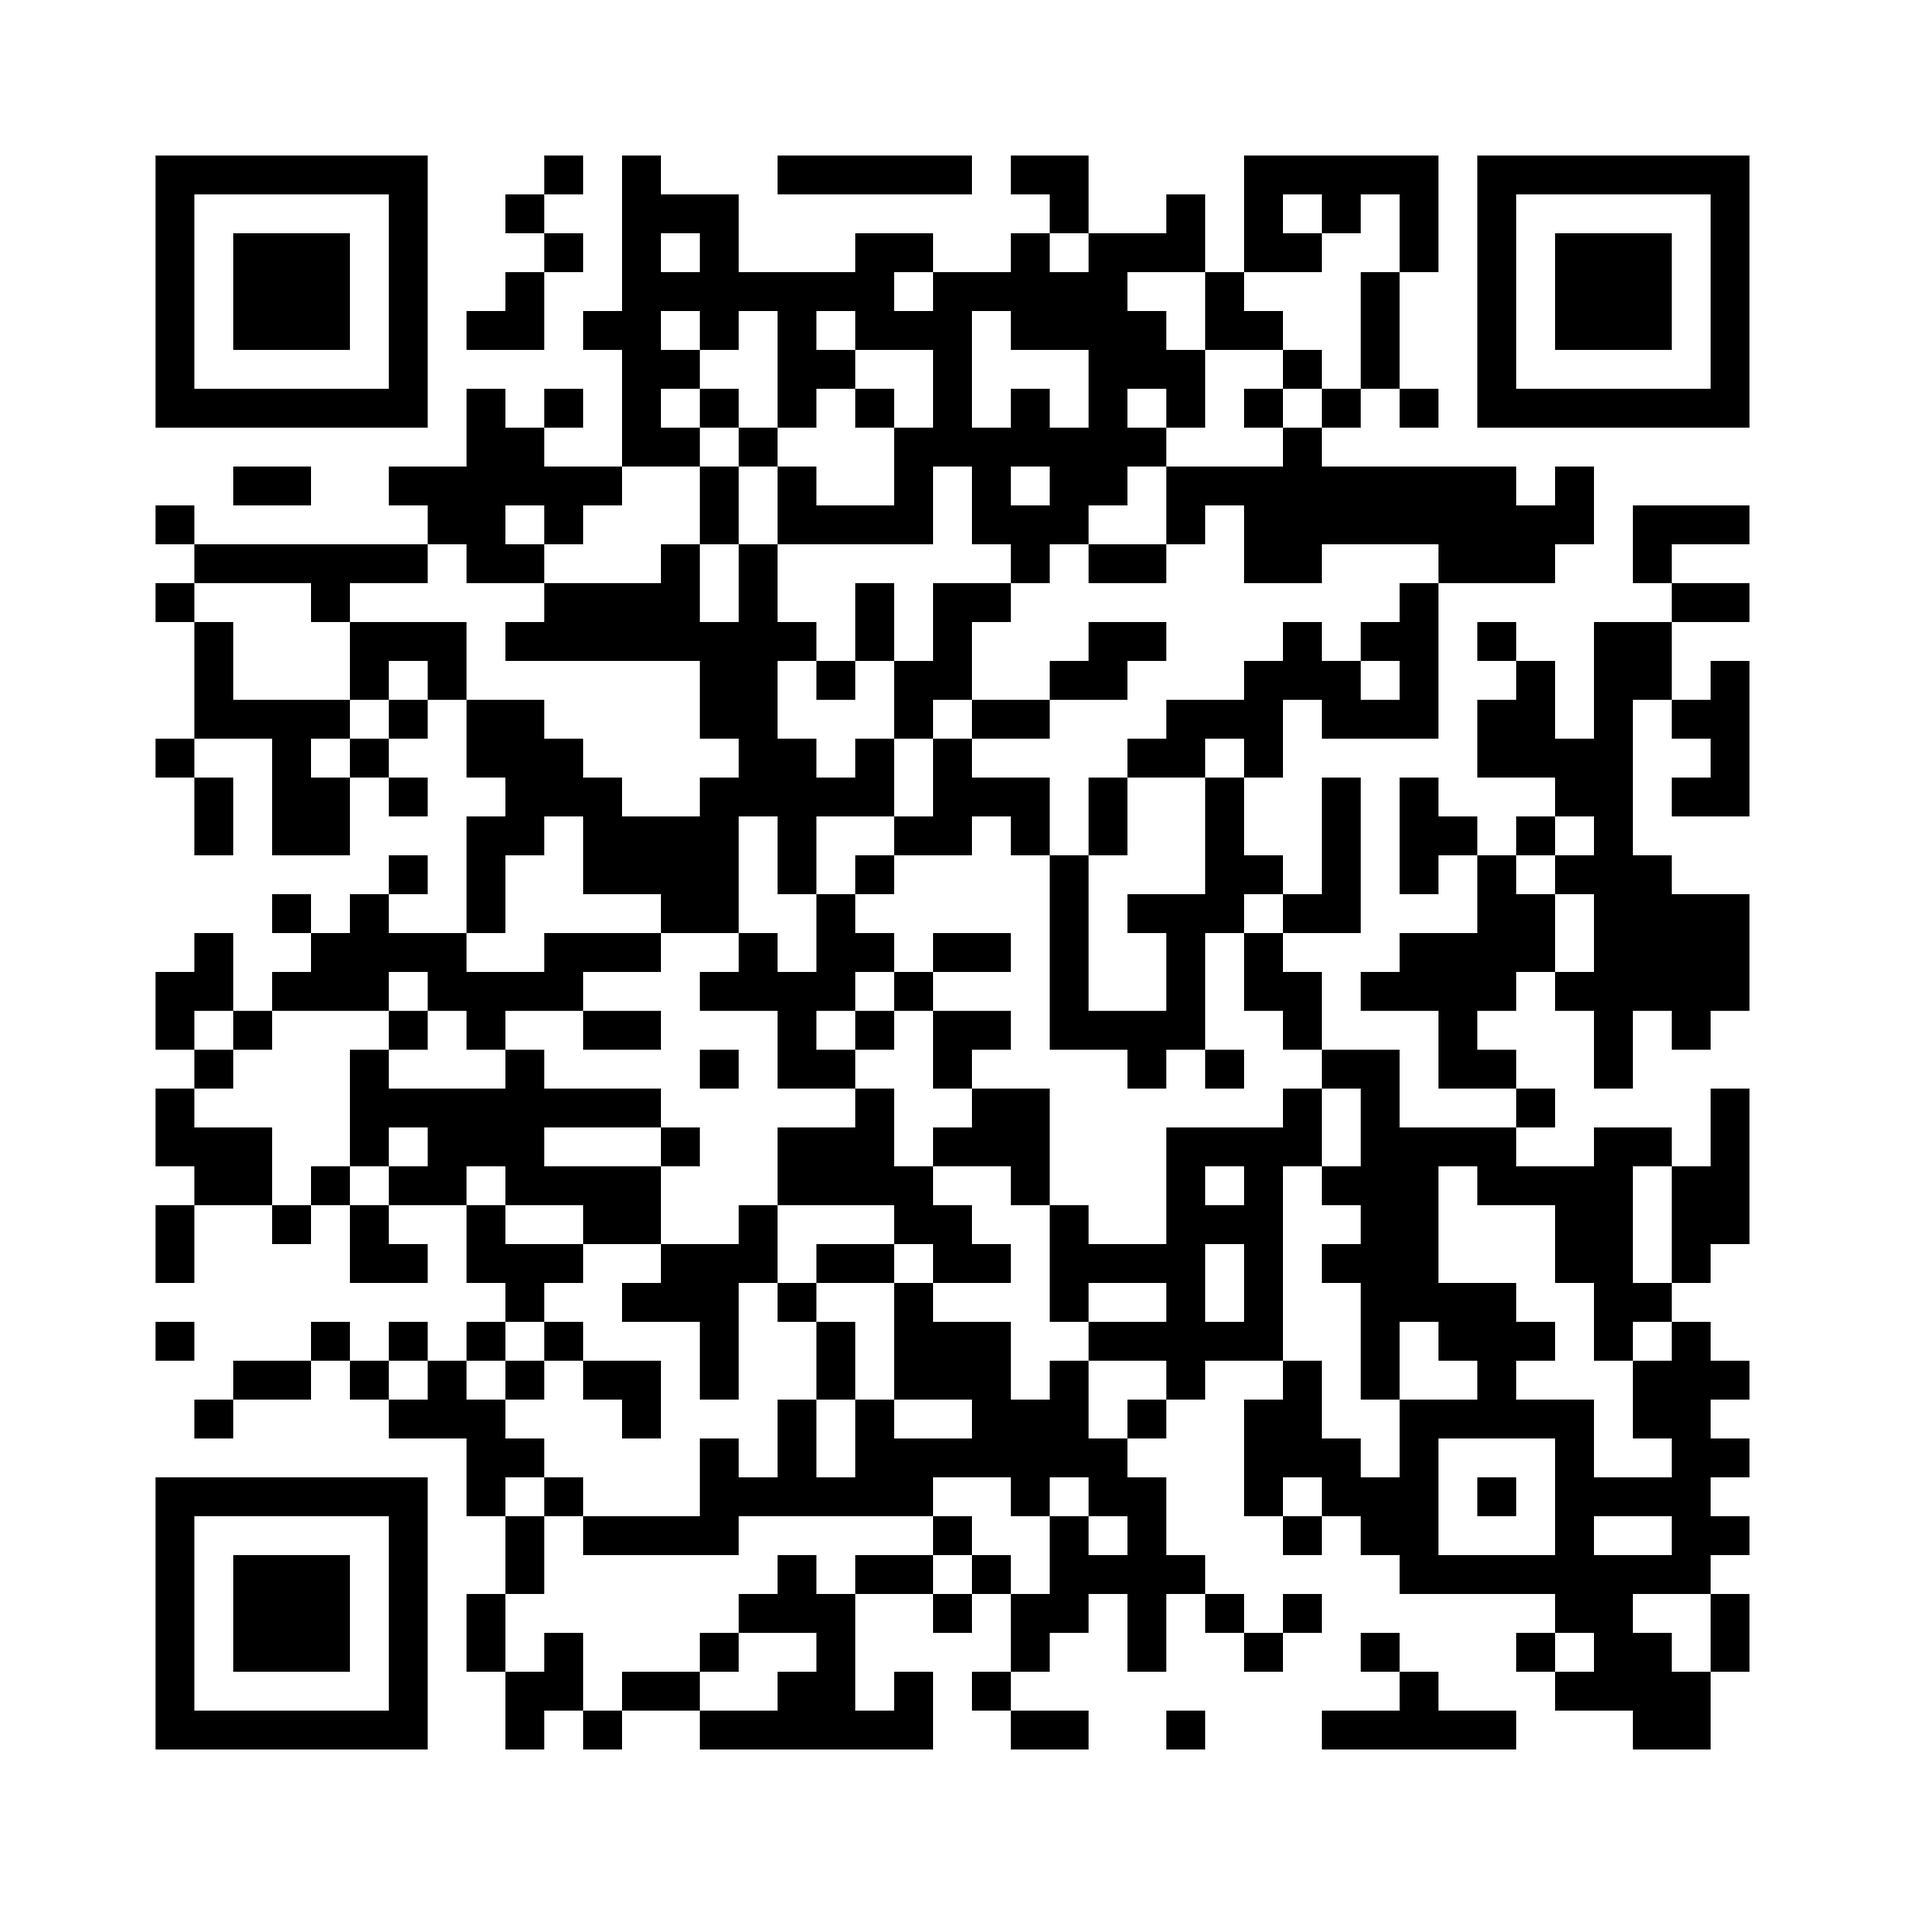
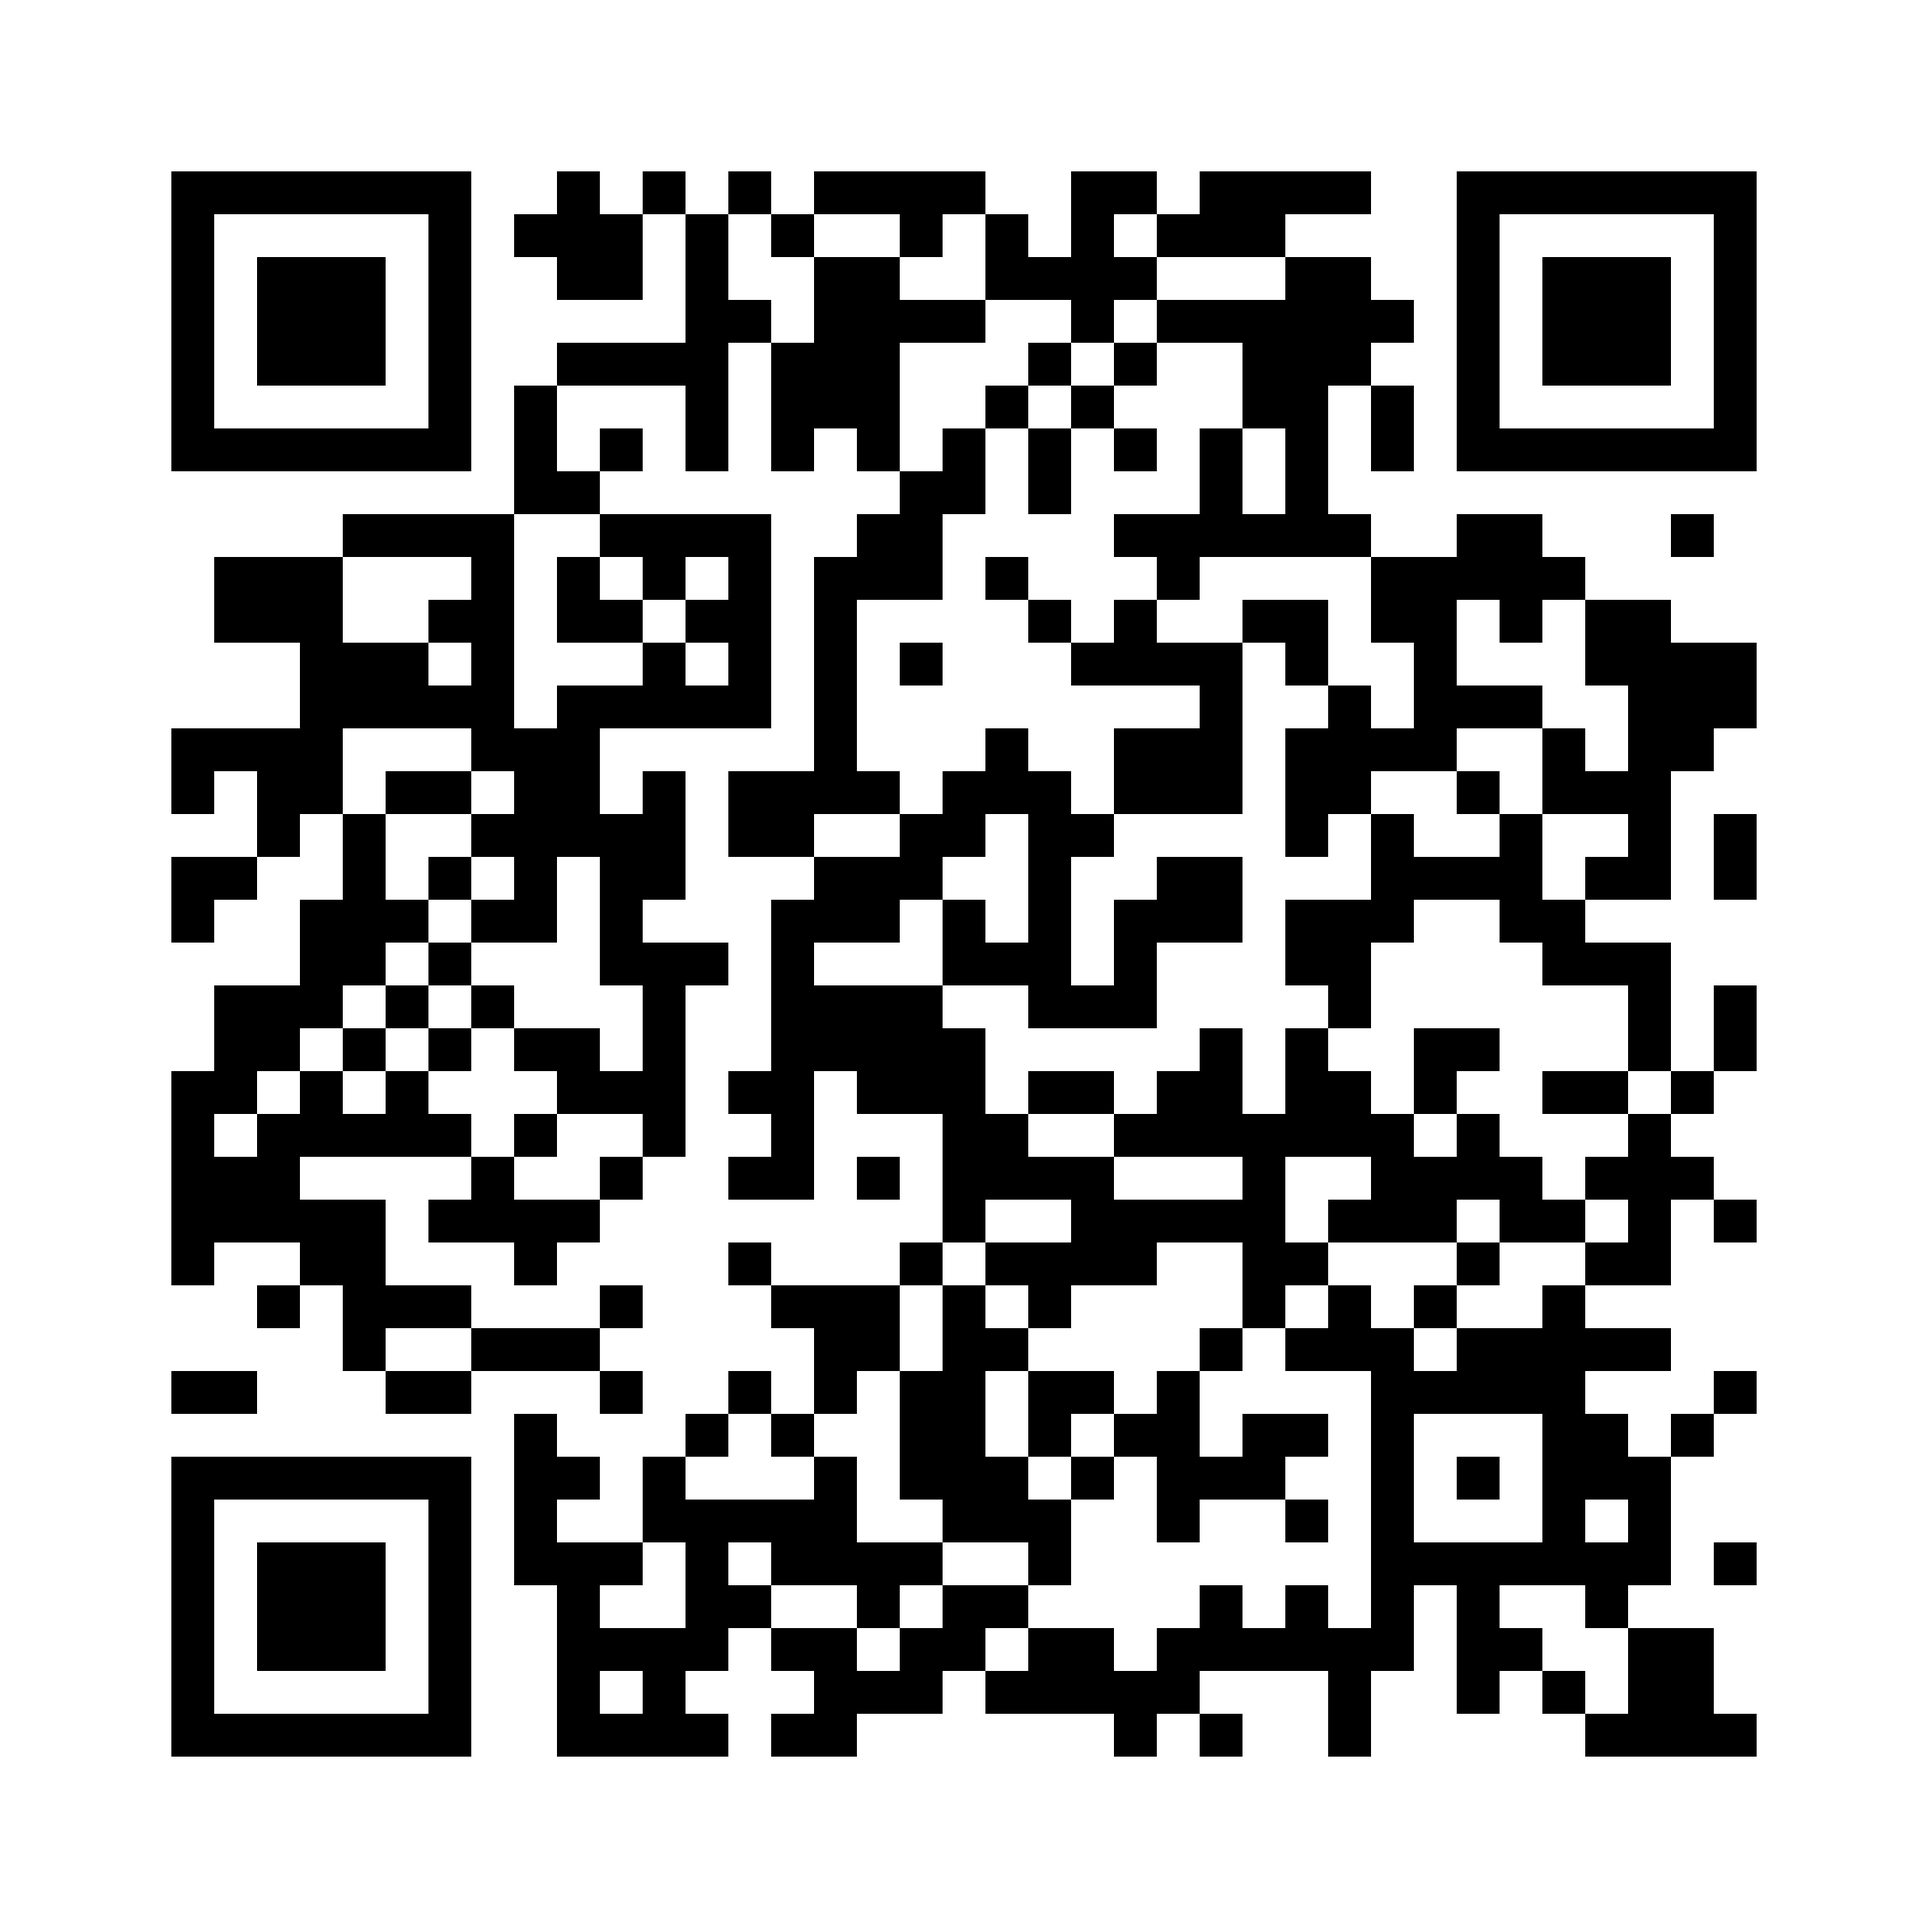
Use a public address that does not include a personal name.
The QR code now opens the Vercel site.

diff --git a/index.html b/index.html
@@ -14,11 +14,11 @@
   <meta name="apple-mobile-web-app-title" content="CASPER">
   <meta name="application-name" content="CASPER NET CAFE">
   <meta http-equiv="Content-Security-Policy" content="default-src 'self'; img-src 'self' data:; style-src 'self'; script-src 'self'; font-src 'self'; base-uri 'self'; form-action 'none'; object-src 'none'">
-  <link rel="canonical" href="https://ziadmagdy75.github.io/casper-net-cafe/">
+  <link rel="canonical" href="https://casper-net-cafe.vercel.app/">
   <meta property="og:title" content="CASPER NET CAFE">
   <meta property="og:description" content="TikTok, Instagram, Facebook, WhatsApp, and Google Maps for CASPER NET CAFE.">
   <meta property="og:type" content="website">
-  <meta property="og:url" content="https://ziadmagdy75.github.io/casper-net-cafe/">
+  <meta property="og:url" content="https://casper-net-cafe.vercel.app/">
   <meta property="og:locale" content="en">
   <meta name="twitter:card" content="summary">
   <meta name="twitter:title" content="CASPER NET CAFE">
@@ -35,7 +35,7 @@
       "@context": "https://schema.org",
       "@type": "InternetCafe",
       "name": "CASPER NET CAFE",
-      "url": "https://ziadmagdy75.github.io/casper-net-cafe/",
+      "url": "https://casper-net-cafe.vercel.app/",
       "hasMap": "https://maps.app.goo.gl/M37ATTRgbqHuvhDWA",
       "sameAs": [
         "https://www.tiktok.com/@casper.netcafe",

diff --git a/print/index.html b/print/index.html
@@ -15,7 +15,7 @@
       <p class="eyebrow">CASPER NET CAFE</p>
       <h1>Print the QR code</h1>
       <p class="lead">Scanning this code opens the link page. It does not print the social addresses as the code itself.</p>
-      <p class="url"><a href="https://ziadmagdy75.github.io/casper-net-cafe/">https://ziadmagdy75.github.io/casper-net-cafe/</a></p>
+      <p class="url"><a href="https://casper-net-cafe.vercel.app/">https://casper-net-cafe.vercel.app/</a></p>
       <div class="actions">
         <button type="button" id="print-btn">Print card</button>
         <a class="btn" href="casper-net-cafe-qr.png" download>PNG</a>
@@ -28,7 +28,7 @@
         <li>Scan it with a phone before you print a stack.</li>
       </ol>
     </header>
-    <img class="card" src="casper-net-cafe-card.svg" alt="Printable QR card for CASPER NET CAFE. Scanning it opens https://ziadmagdy75.github.io/casper-net-cafe/.">
+    <img class="card" src="casper-net-cafe-card.svg" alt="Printable QR card for CASPER NET CAFE. Scanning it opens https://casper-net-cafe.vercel.app/.">
   </main>
   <script src="../js/print.js" defer></script>
 </body>

diff --git a/404.html b/404.html
@@ -62,7 +62,7 @@
     <p>CASPER NET CAFE</p>
     <h1>Page not found</h1>
     <p class="lead">That address is not on this link page.</p>
-    <a id="home-link" href="https://ziadmagdy75.github.io/casper-net-cafe/">Back to links</a>
+    <a id="home-link" href="https://casper-net-cafe.vercel.app/">Back to links</a>
   </main>
 </body>
 </html>

diff --git a/README.md b/README.md
@@ -1,12 +1,12 @@
 # CASPER NET CAFE
 
-Published page: https://ziadmagdy75.github.io/casper-net-cafe/
+Published page: https://casper-net-cafe.vercel.app/
 
-Netlify’s `netlify.app` address does not open from this network (`ERR_CONNECTION_TIMED_OUT`), so the public page is on GitHub Pages.
+This address is the café name only. GitHub Pages included the account name, and `netlify.app` does not open from this network.
 
 The printable QR code opens that page. Files are in `print/`:
 
-- `print/casper-net-cafe-qr.png` — 2401×2401 PNG
+- `print/casper-net-cafe-qr.png` — 2430×2430 PNG
 - `print/casper-net-cafe-qr.svg` — vector QR code
 - `print/casper-net-cafe-card.svg` — A6 card
 - `print/index.html` — print preview
